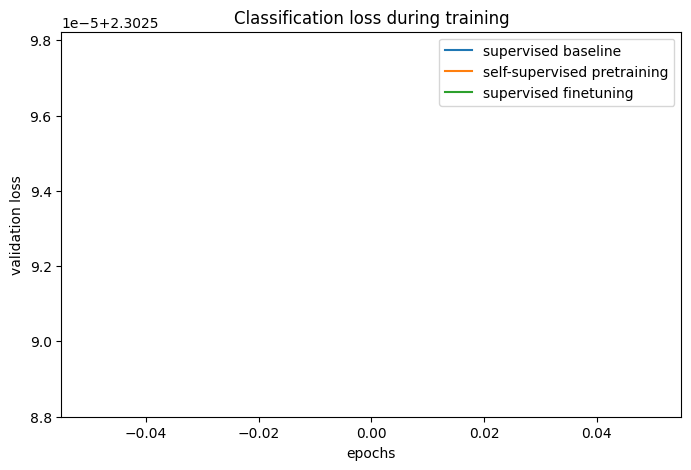
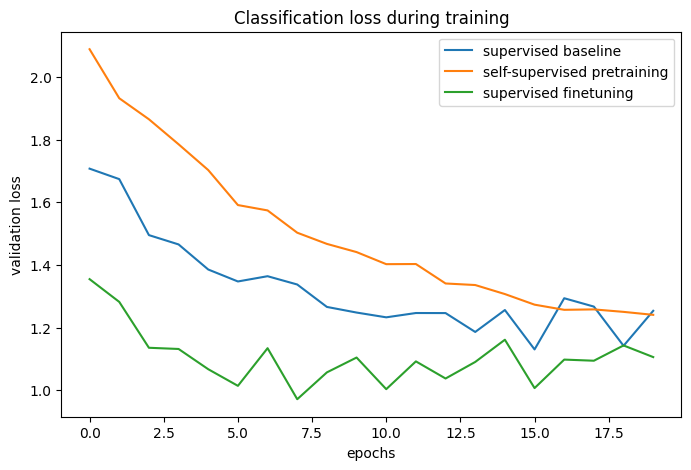
update

diff --git a/examples/vision/semisupervised_simclr.py b/examples/vision/semisupervised_simclr.py
@@ -89,7 +89,7 @@ labeled_dataset_size = 5000
 image_channels = 3
 
 # Algorithm hyperparameters
-num_epochs = 1
+num_epochs = 20
 batch_size = 525  # Corresponds to 200 steps per epoch
 width = 128
 temperature = 0.1
@@ -219,7 +219,7 @@ def get_augmenter(min_area, brightness, jitter):
     zoom_factor = 1.0 - math.sqrt(min_area)
     return keras.Sequential(
         [
-            layers.Rescaling(1 / 255, dtype="uint8"),
+            layers.Rescaling(1 / 255),
             layers.RandomFlip("horizontal"),
             layers.RandomTranslation(zoom_factor / 2, zoom_factor / 2),
             layers.RandomZoom((-zoom_factor, 0.0), (-zoom_factor, 0.0)),

diff --git a/examples/vision/md/semisupervised_simclr.md b/examples/vision/md/semisupervised_simclr.md
@@ -96,7 +96,7 @@ labeled_dataset_size = 5000
 image_channels = 3
 
 # Algorithm hyperparameters
-num_epochs = 1
+num_epochs = 20
 batch_size = 525  # Corresponds to 200 steps per epoch
 width = 128
 temperature = 0.1
@@ -236,7 +236,7 @@ def get_augmenter(min_area, brightness, jitter):
     zoom_factor = 1.0 - math.sqrt(min_area)
     return keras.Sequential(
         [
-            layers.Rescaling(1 / 255, dtype="uint8"),
+            layers.Rescaling(1 / 255),
             layers.RandomFlip("horizontal"),
             layers.RandomTranslation(zoom_factor / 2, zoom_factor / 2),
             layers.RandomZoom((-zoom_factor, 0.0), (-zoom_factor, 0.0)),
@@ -339,8 +339,47 @@ print(
 
 <div class="k-default-codeblock">
 ```
- 200/200 ━━━━━━━━━━━━━━━━━━━━ 9s 27ms/step - acc: 0.0992 - loss: 2.3027 - val_acc: 0.1000 - val_loss: 2.3026
-Maximal validation accuracy: 10.00%
+Epoch 1/20
+ 200/200 ━━━━━━━━━━━━━━━━━━━━ 10s 25ms/step - acc: 0.1778 - loss: 2.1562 - val_acc: 0.3261 - val_loss: 1.7078
+Epoch 2/20
+ 200/200 ━━━━━━━━━━━━━━━━━━━━ 3s 17ms/step - acc: 0.3583 - loss: 1.7477 - val_acc: 0.3766 - val_loss: 1.6743
+Epoch 3/20
+ 200/200 ━━━━━━━━━━━━━━━━━━━━ 4s 21ms/step - acc: 0.4091 - loss: 1.6017 - val_acc: 0.4310 - val_loss: 1.4954
+Epoch 4/20
+ 200/200 ━━━━━━━━━━━━━━━━━━━━ 5s 23ms/step - acc: 0.4364 - loss: 1.5322 - val_acc: 0.4581 - val_loss: 1.4656
+Epoch 5/20
+ 200/200 ━━━━━━━━━━━━━━━━━━━━ 5s 23ms/step - acc: 0.4638 - loss: 1.4673 - val_acc: 0.4823 - val_loss: 1.3855
+Epoch 6/20
+ 200/200 ━━━━━━━━━━━━━━━━━━━━ 4s 20ms/step - acc: 0.4935 - loss: 1.3822 - val_acc: 0.5038 - val_loss: 1.3473
+Epoch 7/20
+ 200/200 ━━━━━━━━━━━━━━━━━━━━ 4s 17ms/step - acc: 0.4990 - loss: 1.3574 - val_acc: 0.5058 - val_loss: 1.3641
+Epoch 8/20
+ 200/200 ━━━━━━━━━━━━━━━━━━━━ 4s 17ms/step - acc: 0.5306 - loss: 1.2743 - val_acc: 0.5084 - val_loss: 1.3376
+Epoch 9/20
+ 200/200 ━━━━━━━━━━━━━━━━━━━━ 4s 17ms/step - acc: 0.5264 - loss: 1.2738 - val_acc: 0.5424 - val_loss: 1.2659
+Epoch 10/20
+ 200/200 ━━━━━━━━━━━━━━━━━━━━ 4s 17ms/step - acc: 0.5751 - loss: 1.1989 - val_acc: 0.5420 - val_loss: 1.2480
+Epoch 11/20
+ 200/200 ━━━━━━━━━━━━━━━━━━━━ 4s 17ms/step - acc: 0.5916 - loss: 1.1188 - val_acc: 0.5491 - val_loss: 1.2327
+Epoch 12/20
+ 200/200 ━━━━━━━━━━━━━━━━━━━━ 4s 17ms/step - acc: 0.5871 - loss: 1.1249 - val_acc: 0.5476 - val_loss: 1.2465
+Epoch 13/20
+ 200/200 ━━━━━━━━━━━━━━━━━━━━ 4s 17ms/step - acc: 0.6107 - loss: 1.0726 - val_acc: 0.5585 - val_loss: 1.2463
+Epoch 14/20
+ 200/200 ━━━━━━━━━━━━━━━━━━━━ 5s 17ms/step - acc: 0.6059 - loss: 1.0698 - val_acc: 0.5815 - val_loss: 1.1859
+Epoch 15/20
+ 200/200 ━━━━━━━━━━━━━━━━━━━━ 4s 21ms/step - acc: 0.6343 - loss: 1.0125 - val_acc: 0.5631 - val_loss: 1.2560
+Epoch 16/20
+ 200/200 ━━━━━━━━━━━━━━━━━━━━ 4s 17ms/step - acc: 0.6372 - loss: 1.0090 - val_acc: 0.5995 - val_loss: 1.1302
+Epoch 17/20
+ 200/200 ━━━━━━━━━━━━━━━━━━━━ 3s 17ms/step - acc: 0.6531 - loss: 0.9594 - val_acc: 0.5537 - val_loss: 1.2937
+Epoch 18/20
+ 200/200 ━━━━━━━━━━━━━━━━━━━━ 4s 17ms/step - acc: 0.6706 - loss: 0.9130 - val_acc: 0.5665 - val_loss: 1.2670
+Epoch 19/20
+ 200/200 ━━━━━━━━━━━━━━━━━━━━ 3s 17ms/step - acc: 0.6729 - loss: 0.8945 - val_acc: 0.6005 - val_loss: 1.1418
+Epoch 20/20
+ 200/200 ━━━━━━━━━━━━━━━━━━━━ 4s 17ms/step - acc: 0.7075 - loss: 0.8153 - val_acc: 0.5851 - val_loss: 1.2535
+Maximal validation accuracy: 60.05%
 
 ```
 </div>
@@ -673,8 +712,47 @@ print(
 
 <div class="k-default-codeblock">
 ```
- 200/200 ━━━━━━━━━━━━━━━━━━━━ 38s 152ms/step - c_acc: 0.0019 - c_loss: 6.2634 - p_acc: 0.1018 - p_loss: 2.3027 - val_c_acc: 0.0000e+00 - val_c_loss: 0.0000e+00 - val_p_acc: 0.1000 - val_p_loss: 2.3026
-Maximal validation accuracy: 10.00%
+Epoch 1/20
+ 200/200 ━━━━━━━━━━━━━━━━━━━━ 38s 155ms/step - c_acc: 0.0802 - c_loss: 5.3667 - p_acc: 0.1345 - p_loss: 2.2911 - val_c_acc: 0.0000e+00 - val_c_loss: 0.0000e+00 - val_p_acc: 0.2558 - val_p_loss: 2.0893
+Epoch 2/20
+ 200/200 ━━━━━━━━━━━━━━━━━━━━ 29s 140ms/step - c_acc: 0.2791 - c_loss: 3.6200 - p_acc: 0.2840 - p_loss: 2.0615 - val_c_acc: 0.0000e+00 - val_c_loss: 0.0000e+00 - val_p_acc: 0.3306 - val_p_loss: 1.9327
+Epoch 3/20
+ 200/200 ━━━━━━━━━━━━━━━━━━━━ 28s 133ms/step - c_acc: 0.4089 - c_loss: 2.9509 - p_acc: 0.3513 - p_loss: 1.9077 - val_c_acc: 0.0000e+00 - val_c_loss: 0.0000e+00 - val_p_acc: 0.3555 - val_p_loss: 1.8655
+Epoch 4/20
+ 200/200 ━━━━━━━━━━━━━━━━━━━━ 29s 139ms/step - c_acc: 0.4904 - c_loss: 2.5740 - p_acc: 0.3814 - p_loss: 1.8211 - val_c_acc: 0.0000e+00 - val_c_loss: 0.0000e+00 - val_p_acc: 0.3923 - val_p_loss: 1.7856
+Epoch 5/20
+ 200/200 ━━━━━━━━━━━━━━━━━━━━ 29s 138ms/step - c_acc: 0.5518 - c_loss: 2.3005 - p_acc: 0.4176 - p_loss: 1.7342 - val_c_acc: 0.0000e+00 - val_c_loss: 0.0000e+00 - val_p_acc: 0.4137 - val_p_loss: 1.7032
+Epoch 6/20
+ 200/200 ━━━━━━━━━━━━━━━━━━━━ 30s 143ms/step - c_acc: 0.5976 - c_loss: 2.1122 - p_acc: 0.4435 - p_loss: 1.6528 - val_c_acc: 0.0000e+00 - val_c_loss: 0.0000e+00 - val_p_acc: 0.4429 - val_p_loss: 1.5914
+Epoch 7/20
+ 200/200 ━━━━━━━━━━━━━━━━━━━━ 29s 137ms/step - c_acc: 0.6240 - c_loss: 1.9754 - p_acc: 0.4536 - p_loss: 1.5819 - val_c_acc: 0.0000e+00 - val_c_loss: 0.0000e+00 - val_p_acc: 0.4577 - val_p_loss: 1.5743
+Epoch 8/20
+ 200/200 ━━━━━━━━━━━━━━━━━━━━ 30s 142ms/step - c_acc: 0.6554 - c_loss: 1.8617 - p_acc: 0.4677 - p_loss: 1.5166 - val_c_acc: 0.0000e+00 - val_c_loss: 0.0000e+00 - val_p_acc: 0.4627 - val_p_loss: 1.5031
+Epoch 9/20
+ 200/200 ━━━━━━━━━━━━━━━━━━━━ 28s 135ms/step - c_acc: 0.6728 - c_loss: 1.7889 - p_acc: 0.4757 - p_loss: 1.4715 - val_c_acc: 0.0000e+00 - val_c_loss: 0.0000e+00 - val_p_acc: 0.4794 - val_p_loss: 1.4673
+Epoch 10/20
+ 200/200 ━━━━━━━━━━━━━━━━━━━━ 29s 139ms/step - c_acc: 0.6921 - c_loss: 1.6983 - p_acc: 0.5013 - p_loss: 1.4168 - val_c_acc: 0.0000e+00 - val_c_loss: 0.0000e+00 - val_p_acc: 0.4866 - val_p_loss: 1.4412
+Epoch 11/20
+ 200/200 ━━━━━━━━━━━━━━━━━━━━ 28s 135ms/step - c_acc: 0.7030 - c_loss: 1.6700 - p_acc: 0.5041 - p_loss: 1.3928 - val_c_acc: 0.0000e+00 - val_c_loss: 0.0000e+00 - val_p_acc: 0.5005 - val_p_loss: 1.4026
+Epoch 12/20
+ 200/200 ━━━━━━━━━━━━━━━━━━━━ 29s 138ms/step - c_acc: 0.7146 - c_loss: 1.6161 - p_acc: 0.5158 - p_loss: 1.3465 - val_c_acc: 0.0000e+00 - val_c_loss: 0.0000e+00 - val_p_acc: 0.5163 - val_p_loss: 1.4030
+Epoch 13/20
+ 200/200 ━━━━━━━━━━━━━━━━━━━━ 28s 134ms/step - c_acc: 0.7264 - c_loss: 1.5713 - p_acc: 0.5305 - p_loss: 1.3124 - val_c_acc: 0.0000e+00 - val_c_loss: 0.0000e+00 - val_p_acc: 0.5217 - val_p_loss: 1.3409
+Epoch 14/20
+ 200/200 ━━━━━━━━━━━━━━━━━━━━ 29s 137ms/step - c_acc: 0.7408 - c_loss: 1.5277 - p_acc: 0.5355 - p_loss: 1.2922 - val_c_acc: 0.0000e+00 - val_c_loss: 0.0000e+00 - val_p_acc: 0.5199 - val_p_loss: 1.3359
+Epoch 15/20
+ 200/200 ━━━━━━━━━━━━━━━━━━━━ 28s 133ms/step - c_acc: 0.7441 - c_loss: 1.5061 - p_acc: 0.5518 - p_loss: 1.2834 - val_c_acc: 0.0000e+00 - val_c_loss: 0.0000e+00 - val_p_acc: 0.5356 - val_p_loss: 1.3070
+Epoch 16/20
+ 200/200 ━━━━━━━━━━━━━━━━━━━━ 29s 141ms/step - c_acc: 0.7529 - c_loss: 1.4672 - p_acc: 0.5573 - p_loss: 1.2535 - val_c_acc: 0.0000e+00 - val_c_loss: 0.0000e+00 - val_p_acc: 0.5468 - val_p_loss: 1.2732
+Epoch 17/20
+ 200/200 ━━━━━━━━━━━━━━━━━━━━ 29s 137ms/step - c_acc: 0.7585 - c_loss: 1.4425 - p_acc: 0.5573 - p_loss: 1.2250 - val_c_acc: 0.0000e+00 - val_c_loss: 0.0000e+00 - val_p_acc: 0.5595 - val_p_loss: 1.2567
+Epoch 18/20
+ 200/200 ━━━━━━━━━━━━━━━━━━━━ 29s 141ms/step - c_acc: 0.7675 - c_loss: 1.4162 - p_acc: 0.5555 - p_loss: 1.2213 - val_c_acc: 0.0000e+00 - val_c_loss: 0.0000e+00 - val_p_acc: 0.5512 - val_p_loss: 1.2580
+Epoch 19/20
+ 200/200 ━━━━━━━━━━━━━━━━━━━━ 32s 155ms/step - c_acc: 0.7733 - c_loss: 1.3948 - p_acc: 0.5696 - p_loss: 1.1949 - val_c_acc: 0.0000e+00 - val_c_loss: 0.0000e+00 - val_p_acc: 0.5472 - val_p_loss: 1.2501
+Epoch 20/20
+ 200/200 ━━━━━━━━━━━━━━━━━━━━ 29s 140ms/step - c_acc: 0.7734 - c_loss: 1.3929 - p_acc: 0.5773 - p_loss: 1.1759 - val_c_acc: 0.0000e+00 - val_c_loss: 0.0000e+00 - val_p_acc: 0.5624 - val_p_loss: 1.2406
+Maximal validation accuracy: 56.24%
 
 ```
 </div>
@@ -713,8 +791,47 @@ print(
 
 <div class="k-default-codeblock">
 ```
- 200/200 ━━━━━━━━━━━━━━━━━━━━ 6s 18ms/step - acc: 0.0987 - loss: 2.3027 - val_acc: 0.1000 - val_loss: 2.3026
-Maximal validation accuracy: 10.00%
+Epoch 1/20
+ 200/200 ━━━━━━━━━━━━━━━━━━━━ 5s 18ms/step - acc: 0.2790 - loss: 1.9564 - val_acc: 0.5050 - val_loss: 1.3547
+Epoch 2/20
+ 200/200 ━━━━━━━━━━━━━━━━━━━━ 3s 17ms/step - acc: 0.4842 - loss: 1.3999 - val_acc: 0.5339 - val_loss: 1.2820
+Epoch 3/20
+ 200/200 ━━━━━━━━━━━━━━━━━━━━ 3s 17ms/step - acc: 0.5529 - loss: 1.2314 - val_acc: 0.5960 - val_loss: 1.1354
+Epoch 4/20
+ 200/200 ━━━━━━━━━━━━━━━━━━━━ 3s 17ms/step - acc: 0.5883 - loss: 1.1250 - val_acc: 0.5867 - val_loss: 1.1316
+Epoch 5/20
+ 200/200 ━━━━━━━━━━━━━━━━━━━━ 3s 17ms/step - acc: 0.6199 - loss: 1.0635 - val_acc: 0.6215 - val_loss: 1.0669
+Epoch 6/20
+ 200/200 ━━━━━━━━━━━━━━━━━━━━ 3s 17ms/step - acc: 0.6280 - loss: 1.0143 - val_acc: 0.6394 - val_loss: 1.0138
+Epoch 7/20
+ 200/200 ━━━━━━━━━━━━━━━━━━━━ 5s 17ms/step - acc: 0.6637 - loss: 0.9512 - val_acc: 0.5946 - val_loss: 1.1341
+Epoch 8/20
+ 200/200 ━━━━━━━━━━━━━━━━━━━━ 3s 17ms/step - acc: 0.6639 - loss: 0.9366 - val_acc: 0.6622 - val_loss: 0.9710
+Epoch 9/20
+ 200/200 ━━━━━━━━━━━━━━━━━━━━ 4s 17ms/step - acc: 0.7018 - loss: 0.8469 - val_acc: 0.6338 - val_loss: 1.0568
+Epoch 10/20
+ 200/200 ━━━━━━━━━━━━━━━━━━━━ 3s 17ms/step - acc: 0.7054 - loss: 0.8137 - val_acc: 0.6175 - val_loss: 1.1042
+Epoch 11/20
+ 200/200 ━━━━━━━━━━━━━━━━━━━━ 4s 17ms/step - acc: 0.7084 - loss: 0.8063 - val_acc: 0.6488 - val_loss: 1.0032
+Epoch 12/20
+ 200/200 ━━━━━━━━━━━━━━━━━━━━ 4s 17ms/step - acc: 0.7254 - loss: 0.7712 - val_acc: 0.6365 - val_loss: 1.0920
+Epoch 13/20
+ 200/200 ━━━━━━━━━━━━━━━━━━━━ 3s 17ms/step - acc: 0.7387 - loss: 0.7199 - val_acc: 0.6470 - val_loss: 1.0372
+Epoch 14/20
+ 200/200 ━━━━━━━━━━━━━━━━━━━━ 4s 21ms/step - acc: 0.7498 - loss: 0.7110 - val_acc: 0.6416 - val_loss: 1.0901
+Epoch 15/20
+ 200/200 ━━━━━━━━━━━━━━━━━━━━ 4s 17ms/step - acc: 0.7723 - loss: 0.6438 - val_acc: 0.6248 - val_loss: 1.1611
+Epoch 16/20
+ 200/200 ━━━━━━━━━━━━━━━━━━━━ 3s 17ms/step - acc: 0.7661 - loss: 0.6650 - val_acc: 0.6699 - val_loss: 1.0066
+Epoch 17/20
+ 200/200 ━━━━━━━━━━━━━━━━━━━━ 3s 17ms/step - acc: 0.7778 - loss: 0.6322 - val_acc: 0.6504 - val_loss: 1.0976
+Epoch 18/20
+ 200/200 ━━━━━━━━━━━━━━━━━━━━ 3s 17ms/step - acc: 0.7844 - loss: 0.5973 - val_acc: 0.6466 - val_loss: 1.0941
+Epoch 19/20
+ 200/200 ━━━━━━━━━━━━━━━━━━━━ 3s 17ms/step - acc: 0.7948 - loss: 0.5746 - val_acc: 0.6524 - val_loss: 1.1429
+Epoch 20/20
+ 200/200 ━━━━━━━━━━━━━━━━━━━━ 3s 17ms/step - acc: 0.7984 - loss: 0.5519 - val_acc: 0.6644 - val_loss: 1.1057
+Maximal validation accuracy: 66.99%
 
 ```
 </div>
